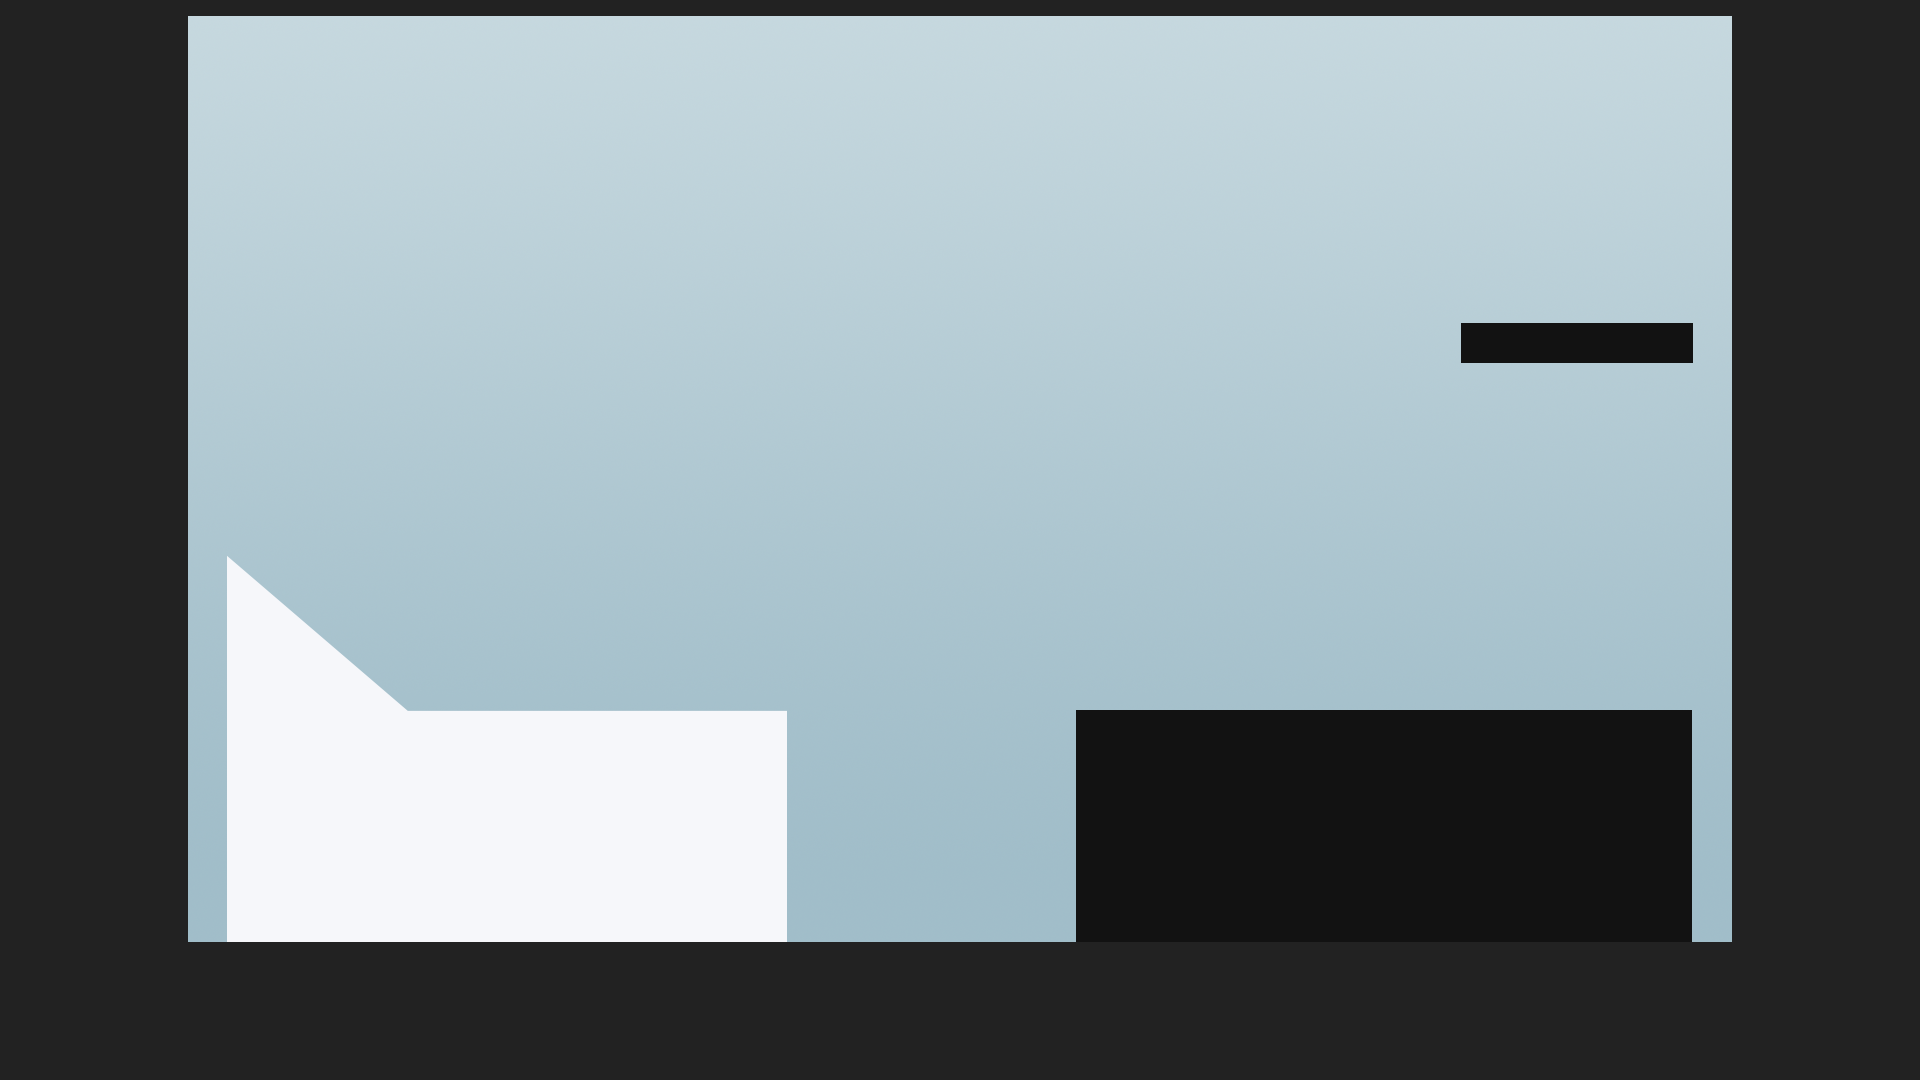
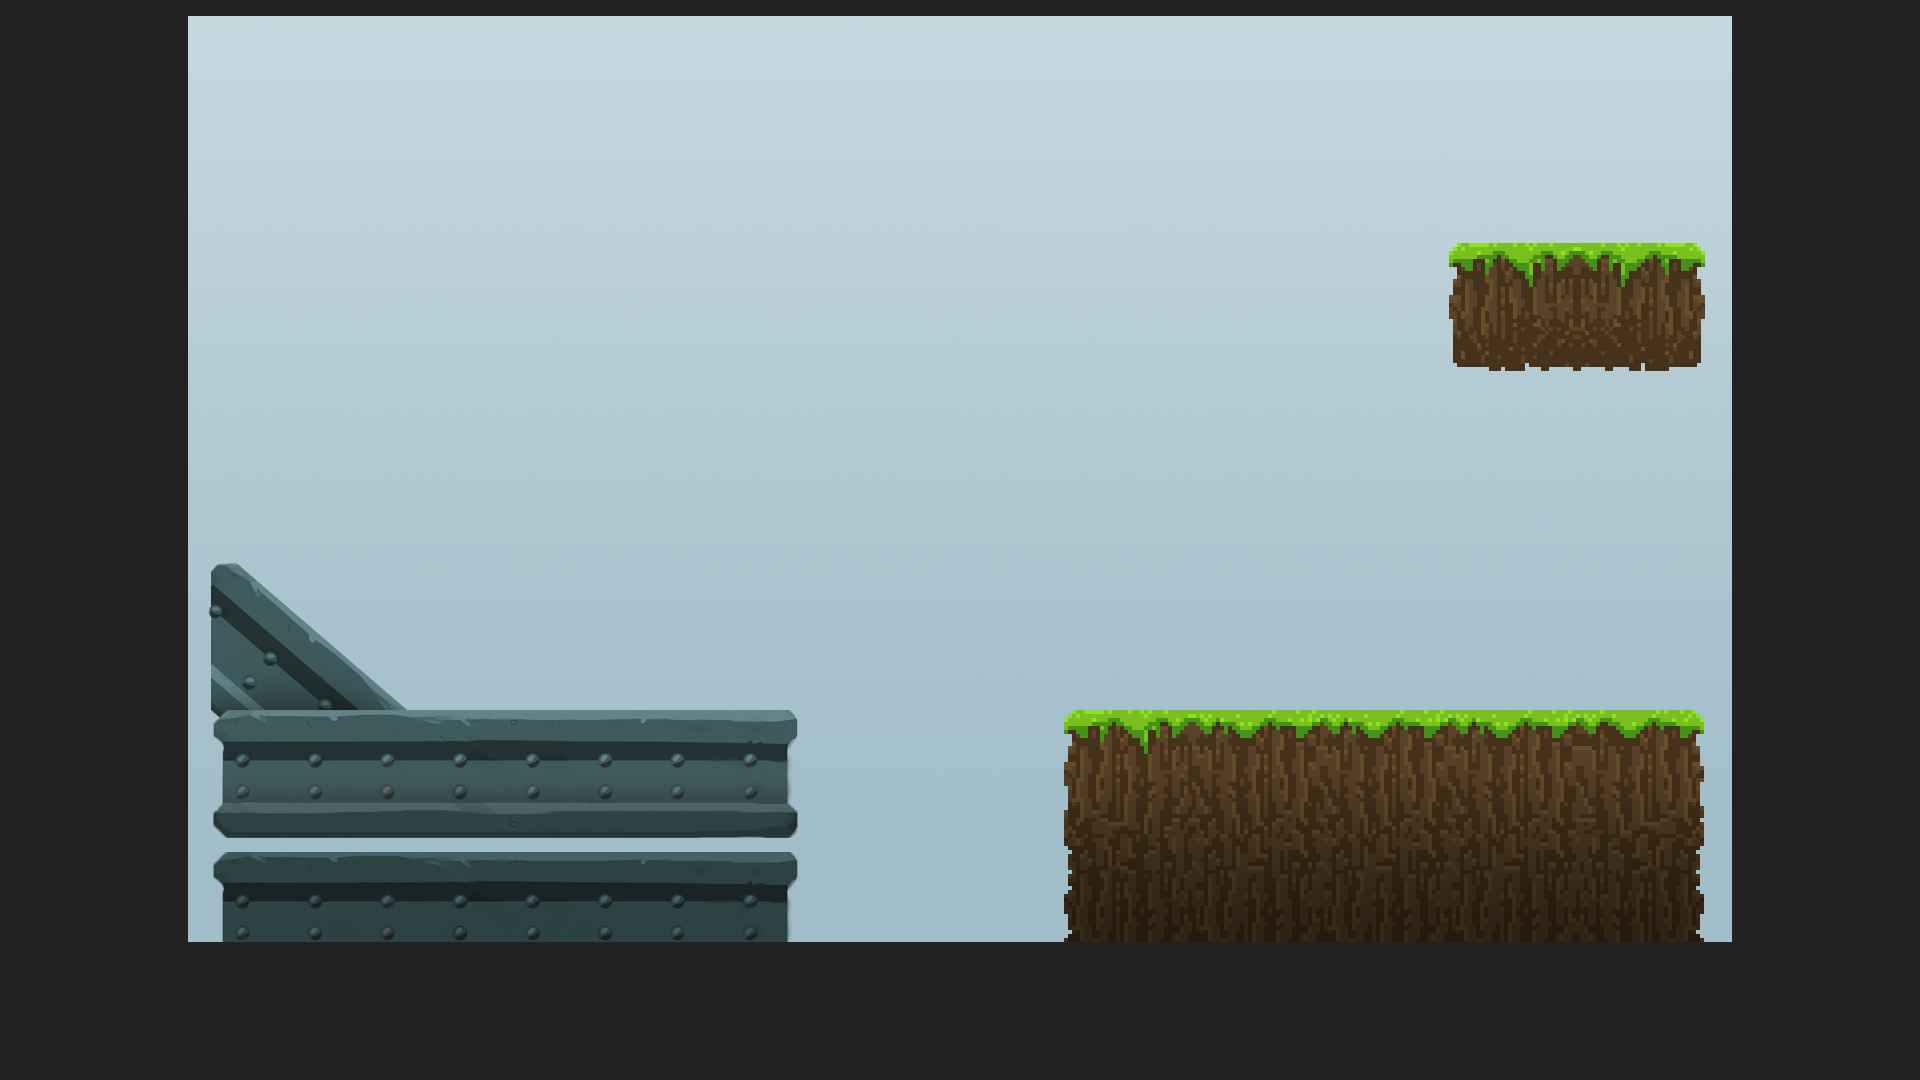
finish renderer

Changed region(s): [[0.0938, 0.5194, 0.4375, 0.8861], [0.5312, 0.6417, 0.9062, 0.8861], [0.75, 0.2139, 0.9062, 0.3667]]

diff --git a/libs/tg-renderer/src/renderer.cpp b/libs/tg-renderer/src/renderer.cpp
@@ -24,6 +24,9 @@ class renderer {
     sf::Texture bullet_texture;
     sf::Sprite bullet_sprite;
 
+    sf::Texture explosion_texture;
+    sf::Sprite explosion_sprite;
+
     sf::Font font;
     std::array<sf::Text, 2> player_name_texts;
     sf::Text score_text;
@@ -62,10 +65,17 @@ public:
         bullet_texture.loadFromFile("resources/bullet.png");
         bullet_sprite.setTexture(bullet_texture);
 
+        explosion_texture.loadFromFile("resources/explosion.png");
+        explosion_sprite.setTexture(explosion_texture);
+
         font.loadFromFile("resources/NotoSansSC-Light.otf");
 
         background_sprite.setScale(1, -1);
         background_sprite.setOrigin(0, 1080);
+
+        bullet_sprite.setOrigin(10, 10);
+        explosion_sprite.setOrigin(40, 40);
+        bullet_sprite.setScale(1, -1);
 
         for(int i = 0; i < 2; ++i) {
             tank_sprites[i].setOrigin(114/2, 110);
@@ -77,9 +87,9 @@ public:
             player_name_texts[i].setFillColor(sf::Color::White);
             player_name_texts[i].setScale(1, -1);
         }
-        player_name_texts[0].setPosition(188, 80);
+        player_name_texts[0].setPosition(188, 90);
         const float text1_width = player_name_texts[1].getLocalBounds().width;
-        player_name_texts[1].setPosition(1920-188-text1_width, 80);
+        player_name_texts[1].setPosition(1920-188-text1_width, 90);
 
         for(auto& blocker : blockers) {
             blocker.setFillColor(sf::Color(0x22, 0x22, 0x22));
@@ -126,6 +136,16 @@ public:
             buf.draw(bullet_sprite);
         }
 
+        if (st.frontend.explosion_intensity > 0) {
+            explosion_sprite.setPosition(transform_coordinates(st.frontend.explosion_position));
+            float explosion_scale = st.frontend.explosion_intensity / 2.0;
+            if (st.frontend.explosion_intensity == 5) {
+                explosion_scale = 1;
+            }
+            explosion_sprite.setScale(explosion_scale, explosion_scale);
+            buf.draw(explosion_sprite);
+        }
+
         for (auto& blocker : blockers) {
             buf.draw(blocker);
         }
@@ -170,8 +190,6 @@ void save_to_file(const Buffer& buf, const fs::path& outpath, const unsigned ima
     ss << "frame_" << std::setw(4) << std::setfill('0') << image_id << ".jpg";
     const std::string filename = ss.str();
 
-    std::cerr << "saving file " << filename << '\n';
-
     buf.getTexture().copyToImage().saveToFile(outpath / filename);
 }
 
@@ -183,13 +201,19 @@ void render_match(const match_t& match, const fs::path& outpath, const std::arra
     settings.antialiasingLevel = 8;
 
     sf::RenderTexture buf;
-    buf.create(1920, 1080); //, settings);
+    buf.create(1920, 1080);
 
-    for (unsigned i = 0;; ++i) {
-        if (!anim.next_frame())
+    for (unsigned i = 1;; ++i) {
+        if (!anim.next_frame()) {
+            // Copy the last frame x times to make the final score change
+            // visible for longer than one frame.
+            for (int j = 0; j < 8; ++j) {
+                save_to_file(buf, outpath, i);
+                ++i;
+            }
             break;
+        }
 
-        // buf.clear(sf::Color(30, 30, 30));
         r.render_state(buf, anim.current_state);
 
         save_to_file(buf, outpath, i);

diff --git a/src/main.cpp b/src/main.cpp
@@ -9,18 +9,30 @@
 #include <fstream>
 
 int main(int argc, char** argv) {
-    if (argc != 2) {
-        std::cerr << "usage: " << std::string(argv[0]) << " logfile\n";
+    if (argc != 5) {
+        std::cerr << "usage: " << std::string(argv[0]) << " logfile name1 name2 output_path\n";
         return 1;
     }
     const std::string logfile(argv[1]);
     std::ifstream match_stream(logfile);
     const auto match = tg::parse_events(match_stream);
     std::cerr << "parsed file (" << match.size() << " events)\n";
-    std::cout << "Winner: player " << (char)('A' + tg::compute_winner(match)) << '\n';
+
+    const auto longest_motion = tg::longest_motion(match);
+    std::cerr << "Longest motion: " << longest_motion << '\n';
+    if (longest_motion > 300) {
+        std::cerr << "probably contains physics errors. please rerun.\n";
+        return 1;
+    }
+
+    std::array<std::string,2> names;
+    names[0] = argv[2];
+    names[1] = argv[3];
+
+    const std::string output_path(argv[4]);
 
     // auto anim = tg::animation{match};
     // auto frame = anim.next_frame();
     // std::cerr << frame;
-    tg::render_match(match, "out", {"nicolas.camenisch d3i_bot", "chnuspi angry_bot"});
+    tg::render_match(match, output_path, names);
 }

diff --git a/libs/tg-renderer/src/animation.cpp b/libs/tg-renderer/src/animation.cpp
@@ -10,10 +10,11 @@ animation::animation(const match_t& match)
     : match (match) {}
 
 bool animation::next_frame() {
-    current_state.frontend.bullet_exploding = false;
+    if (current_state.frontend.explosion_intensity > 0)
+        -- current_state.frontend.explosion_intensity;
     bool something_happened = false;
 
-    while (!something_happened || event_counter == match.size()) {
+    while (!something_happened && event_counter < match.size()) {
         const event& ev = match[event_counter];
         std::visit(overloaded {
             [&](const respawn_event& e) {
@@ -40,7 +41,8 @@ bool animation::next_frame() {
             },
             [&](const impact_event& e) {
                 if (!ev.simulated) {
-                    current_state.frontend.bullet_exploding = true;
+                    current_state.frontend.explosion_intensity = 5;
+                    current_state.frontend.explosion_position = e.pos;
                     // something_happened = true;
                 }
                 ++ event_counter;

diff --git a/libs/tg-judge/src/judge.cpp b/libs/tg-judge/src/judge.cpp
@@ -95,4 +95,20 @@ double compute_style_score(const match_t& match) {
         long_motion_score * -1000.0;
 }
 
+unsigned longest_motion(const match_t& match) {
+    unsigned longest = 0;
+
+    std::for_each(match.begin(), match.end(), [&](const event& ev){
+        if (ev.simulated) return;
+        std::visit(overloaded {
+            [&](const motion_event& e) {
+                longest = std::max<unsigned>(e.trajectory.size(), longest);
+            },
+            [](const auto&) {/* ignore */}
+        }, ev.event_body);
+    });
+
+    return longest;
+}
+
 } // namespace tg

diff --git a/libs/tg-types/src/state.cpp b/libs/tg-types/src/state.cpp
@@ -13,10 +13,11 @@ std::ostream& operator<<(std::ostream& stream, const state& st) {
         stream << "    Int.:  " << aim.intensity << '\n';
     }
     stream << "Bullet:\n";
-    stream << "    " << st.physics.bullet;
-    if (st.frontend.bullet_exploding)
-        stream << " (exploding)";
-    stream << '\n';
+    stream << "    " << st.physics.bullet << '\n';
+
+    stream << "Explosion:\n";
+    stream << "    Int.:  " << st.frontend.explosion_intensity << '\n';
+    stream << "    Pos:   " << st.frontend.explosion_position << '\n';
 
     return stream;
 }

diff --git a/libs/tg-judge/include/tg-judge/judge.hpp b/libs/tg-judge/include/tg-judge/judge.hpp
@@ -11,6 +11,8 @@ std::uint8_t compute_winner(const match_t& match);
 // show parts of this match at soi-day
 double compute_style_score(const match_t& match);
 
+unsigned longest_motion(const match_t& match);
+
 } // namespace tg
 
 #endif // JUDGE_HPP

diff --git a/libs/tg-types/include/tg-types/state.hpp b/libs/tg-types/include/tg-types/state.hpp
@@ -24,7 +24,8 @@ struct tank_aim {
 
 struct frontend_state {
     std::array<tank_aim, 2> tank_aims;
-    bool bullet_exploding = false;
+    unsigned explosion_intensity = 0;
+    point explosion_position;
 };
 
 struct state {
